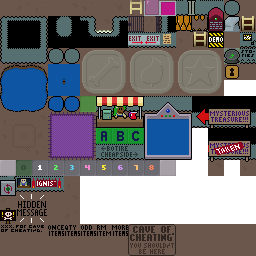
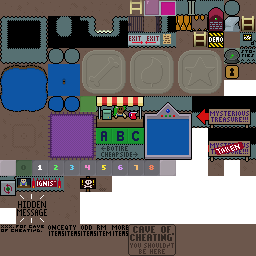
let bombs blow landmines, and make the minefield's signs flammable

Changed region(s): [[0.3125, 0.6875, 0.4375, 0.75], [0.0, 0.8125, 0.0625, 0.875]]

diff --git a/src/game/sprite/sprite_landmine.c b/src/game/sprite/sprite_landmine.c
@@ -65,7 +65,9 @@ static void landmine_record_pumpkin(struct sprite *sprite,struct sprite *pumpkin
 /* Explode.
  */
  
-static void landmine_explode(struct sprite *sprite) {
+void sprite_landmine_explode(struct sprite *sprite) {
+  if (!sprite||(sprite->type!=&sprite_type_landmine)) return;
+  
   bm_sound(RID_sound_bombblow);
   store_set_fld(SPRITE->fldid,1);
   SPRITE->exploded=1.000;
@@ -83,6 +85,7 @@ static void landmine_explode(struct sprite *sprite) {
     struct sprite *other=*otherp;
     if (other->defunct) continue;
     if (other==sprite) continue;
+    if (other->type==&sprite_type_bomb) continue; // Don't eject bombs, it looks weird.
     double dx=other->x-sprite->x;
     double dy=other->y-sprite->y;
     double d2=dx*dx+dy*dy;
@@ -156,11 +159,12 @@ static void _landmine_update(struct sprite *sprite,double elapsed) {
   for (;otheri-->0;otherp++) {
     struct sprite *other=*otherp;
     if (!sprite_hero_is_grounded(other)) continue;
+    if (other->type==&sprite_type_bomb) continue; // Placing a bomb on a landmine shouldn't blow either. Let the fuse burn down.
     double dx=other->x-sprite->x;
     double dy=other->y-sprite->y;
     double d2=dx*dx+dy*dy;
     if (d2>0.300) continue;
-    landmine_explode(sprite);
+    sprite_landmine_explode(sprite);
     return;
   }
 }

diff --git a/src/game/sprite/sprite_bomb.c b/src/game/sprite/sprite_bomb.c
@@ -115,6 +115,20 @@ static void bomb_blow(struct sprite *sprite) {
     dy=(dy*velocity)/distance;
     bomb_record_pumpkin(sprite,other,dx,dy);
   }
+  
+  /* Landmines explode.
+   */
+  for (otherp=GRP(update)->sprv,otheri=GRP(update)->sprc;otheri-->0;otherp++) {
+    struct sprite *other=*otherp;
+    if (other->defunct) continue;
+    double dx=other->x-sprite->x;
+    double dy=other->y-sprite->y;
+    double d2=dx*dx+dy*dy;
+    if (d2>=2.0) continue;
+    if (other->type==&sprite_type_landmine) {
+      sprite_landmine_explode(other);
+    }
+  }
 }
 
 static void reduce_delta(struct pumpkin *pumpkin,double elapsed) {

diff --git a/src/game/sprite/sprite.h b/src/game/sprite/sprite.h
@@ -140,6 +140,8 @@ void sprite_bonfire_set_ttl(struct sprite *sprite,double ttl);
 int sprite_treadlepass_hint(int *x,int *y,const struct sprite *sprite,int fld);
 int sprite_trickfloor_hint(int *x,int *y,const struct sprite *sprite,int fld);
 
+void sprite_landmine_explode(struct sprite *sprite);
+
 /* Sprite group.
  *******************************************************************/
  

diff --git a/src/game/shared_symbols.h b/src/game/shared_symbols.h
@@ -965,6 +965,8 @@
 #define NS_fld_icepalace_visited 298
 #define NS_fld_princess_in_well 299
 #define NS_fld_princess_vengeful 300 /* Set when she enters the well; stays on until avenged. */
+#define NS_fld_minefield_sign_1 301
+#define NS_fld_minefield_sign_2 302
 
 /* "fld16" are 16 unsigned bits each.
  */

diff --git a/README.md b/README.md
@@ -49,7 +49,7 @@ Requires [Egg](https://github.com/aksommerville/egg2) to build.
 - [ ] If you strangle the temple's root devil last, we incorrectly play `smoke_and_mirrors` after the credit roll instead of `minotaur`. Rights itself when you go inside.
 - - Does it matter? This would be a little tricky to fix, because `g.song_override_outerworld` doesn't record the actual song doing the overriding, and we definitely do want `bloomful_rejoicement` temporarily.
 - [x] Telescope doesn't work in maps with camera-override. Fine to pass over them, but you can't initiate telescope there.
-- [ ] Should bomb blow landmines? Wouldn't take too much if we want it: `sprite_bomb.c:bomb_blow()` ...yes, it should
+- [x] Should bomb blow landmines? Wouldn't take too much if we want it: `sprite_bomb.c:bomb_blow()` ...yes, it should
 - [ ] Changing language while `sprite_letfloor` in play doesn't change the clues. Should we poll for language? That's probly overkill. Think it over.
 - - If we are going to react to language changes, we have to zap the whole state. Otherwise they could make the puzzle way more interesting than it ought to be.
 - [ ] Put more figure-eights, anywhere there's two similar things close to each other. And require one in a zoo somewhere downstairs.
@@ -114,6 +114,7 @@ Requires [Egg](https://github.com/aksommerville/egg2) to build.
 - - [ ] Inconvenience Store
 - [ ] Underground.
 - - [ ] Lots of monsters everywhere, and we can put really hard ones down here.
+- - [ ] We made `flammable` cells but haven't used yet. Block some regions such that you have to bomb thru. Maybe the Wishing Well?
 
 - Battle repairs.
 - [ ] bobsleigh: I crossed the finish line once and it just didn't register.
